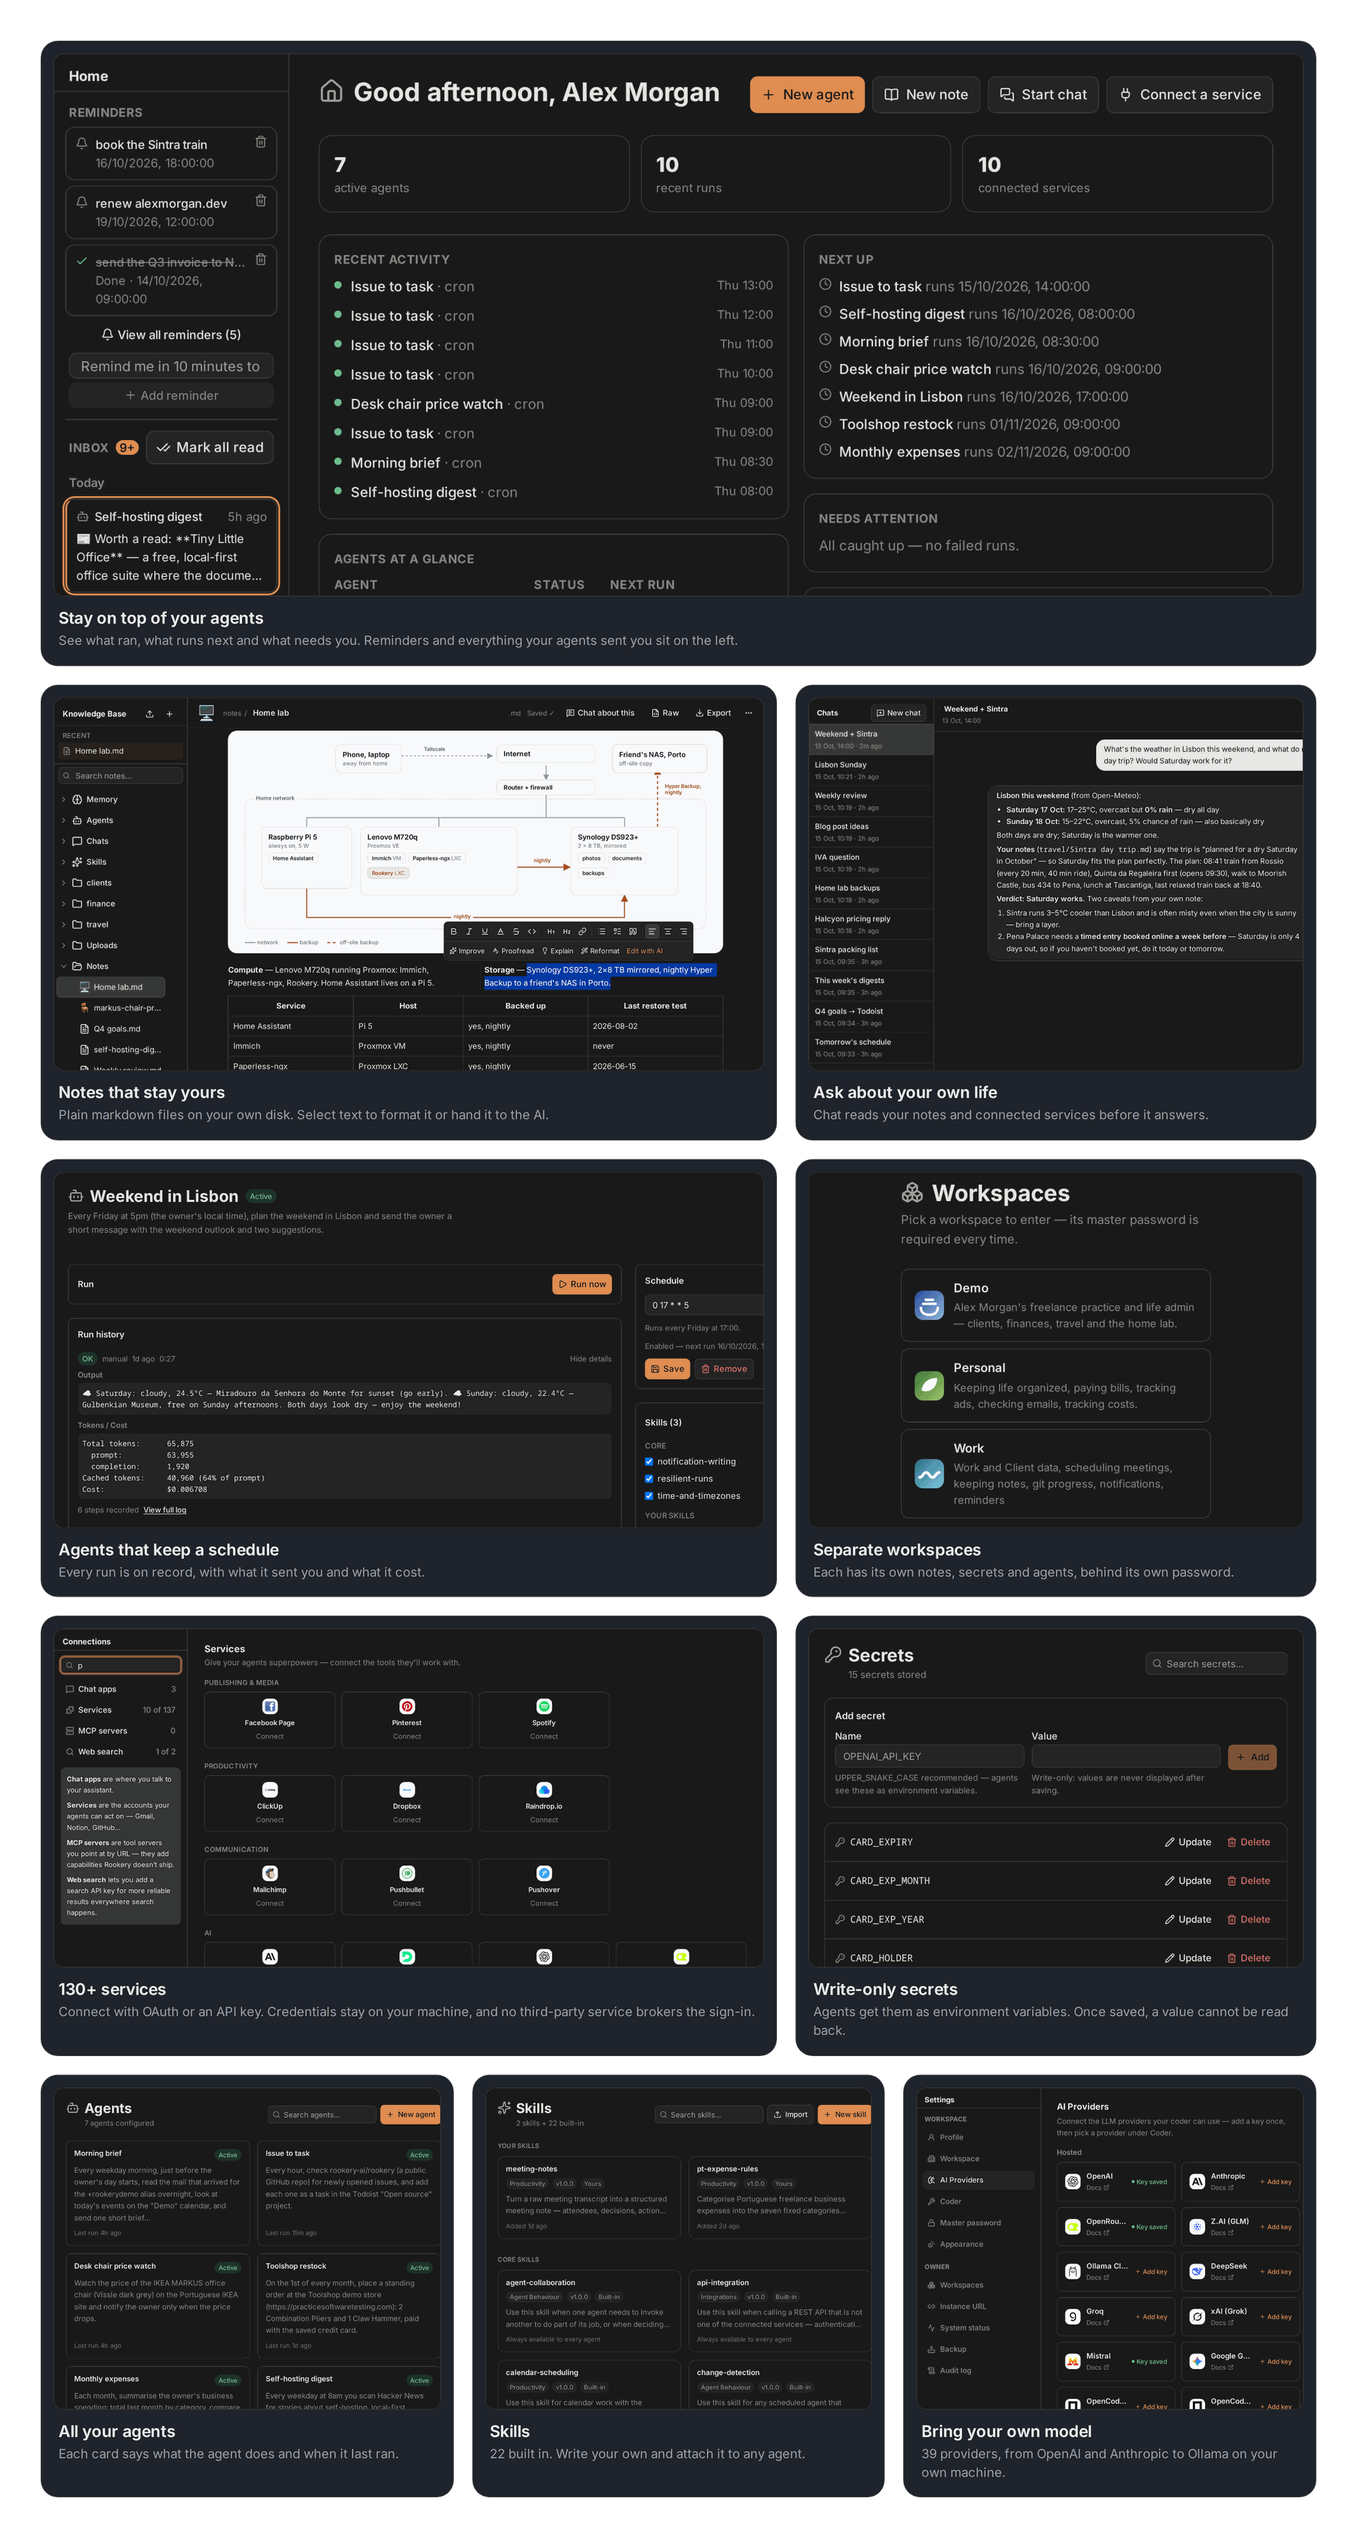
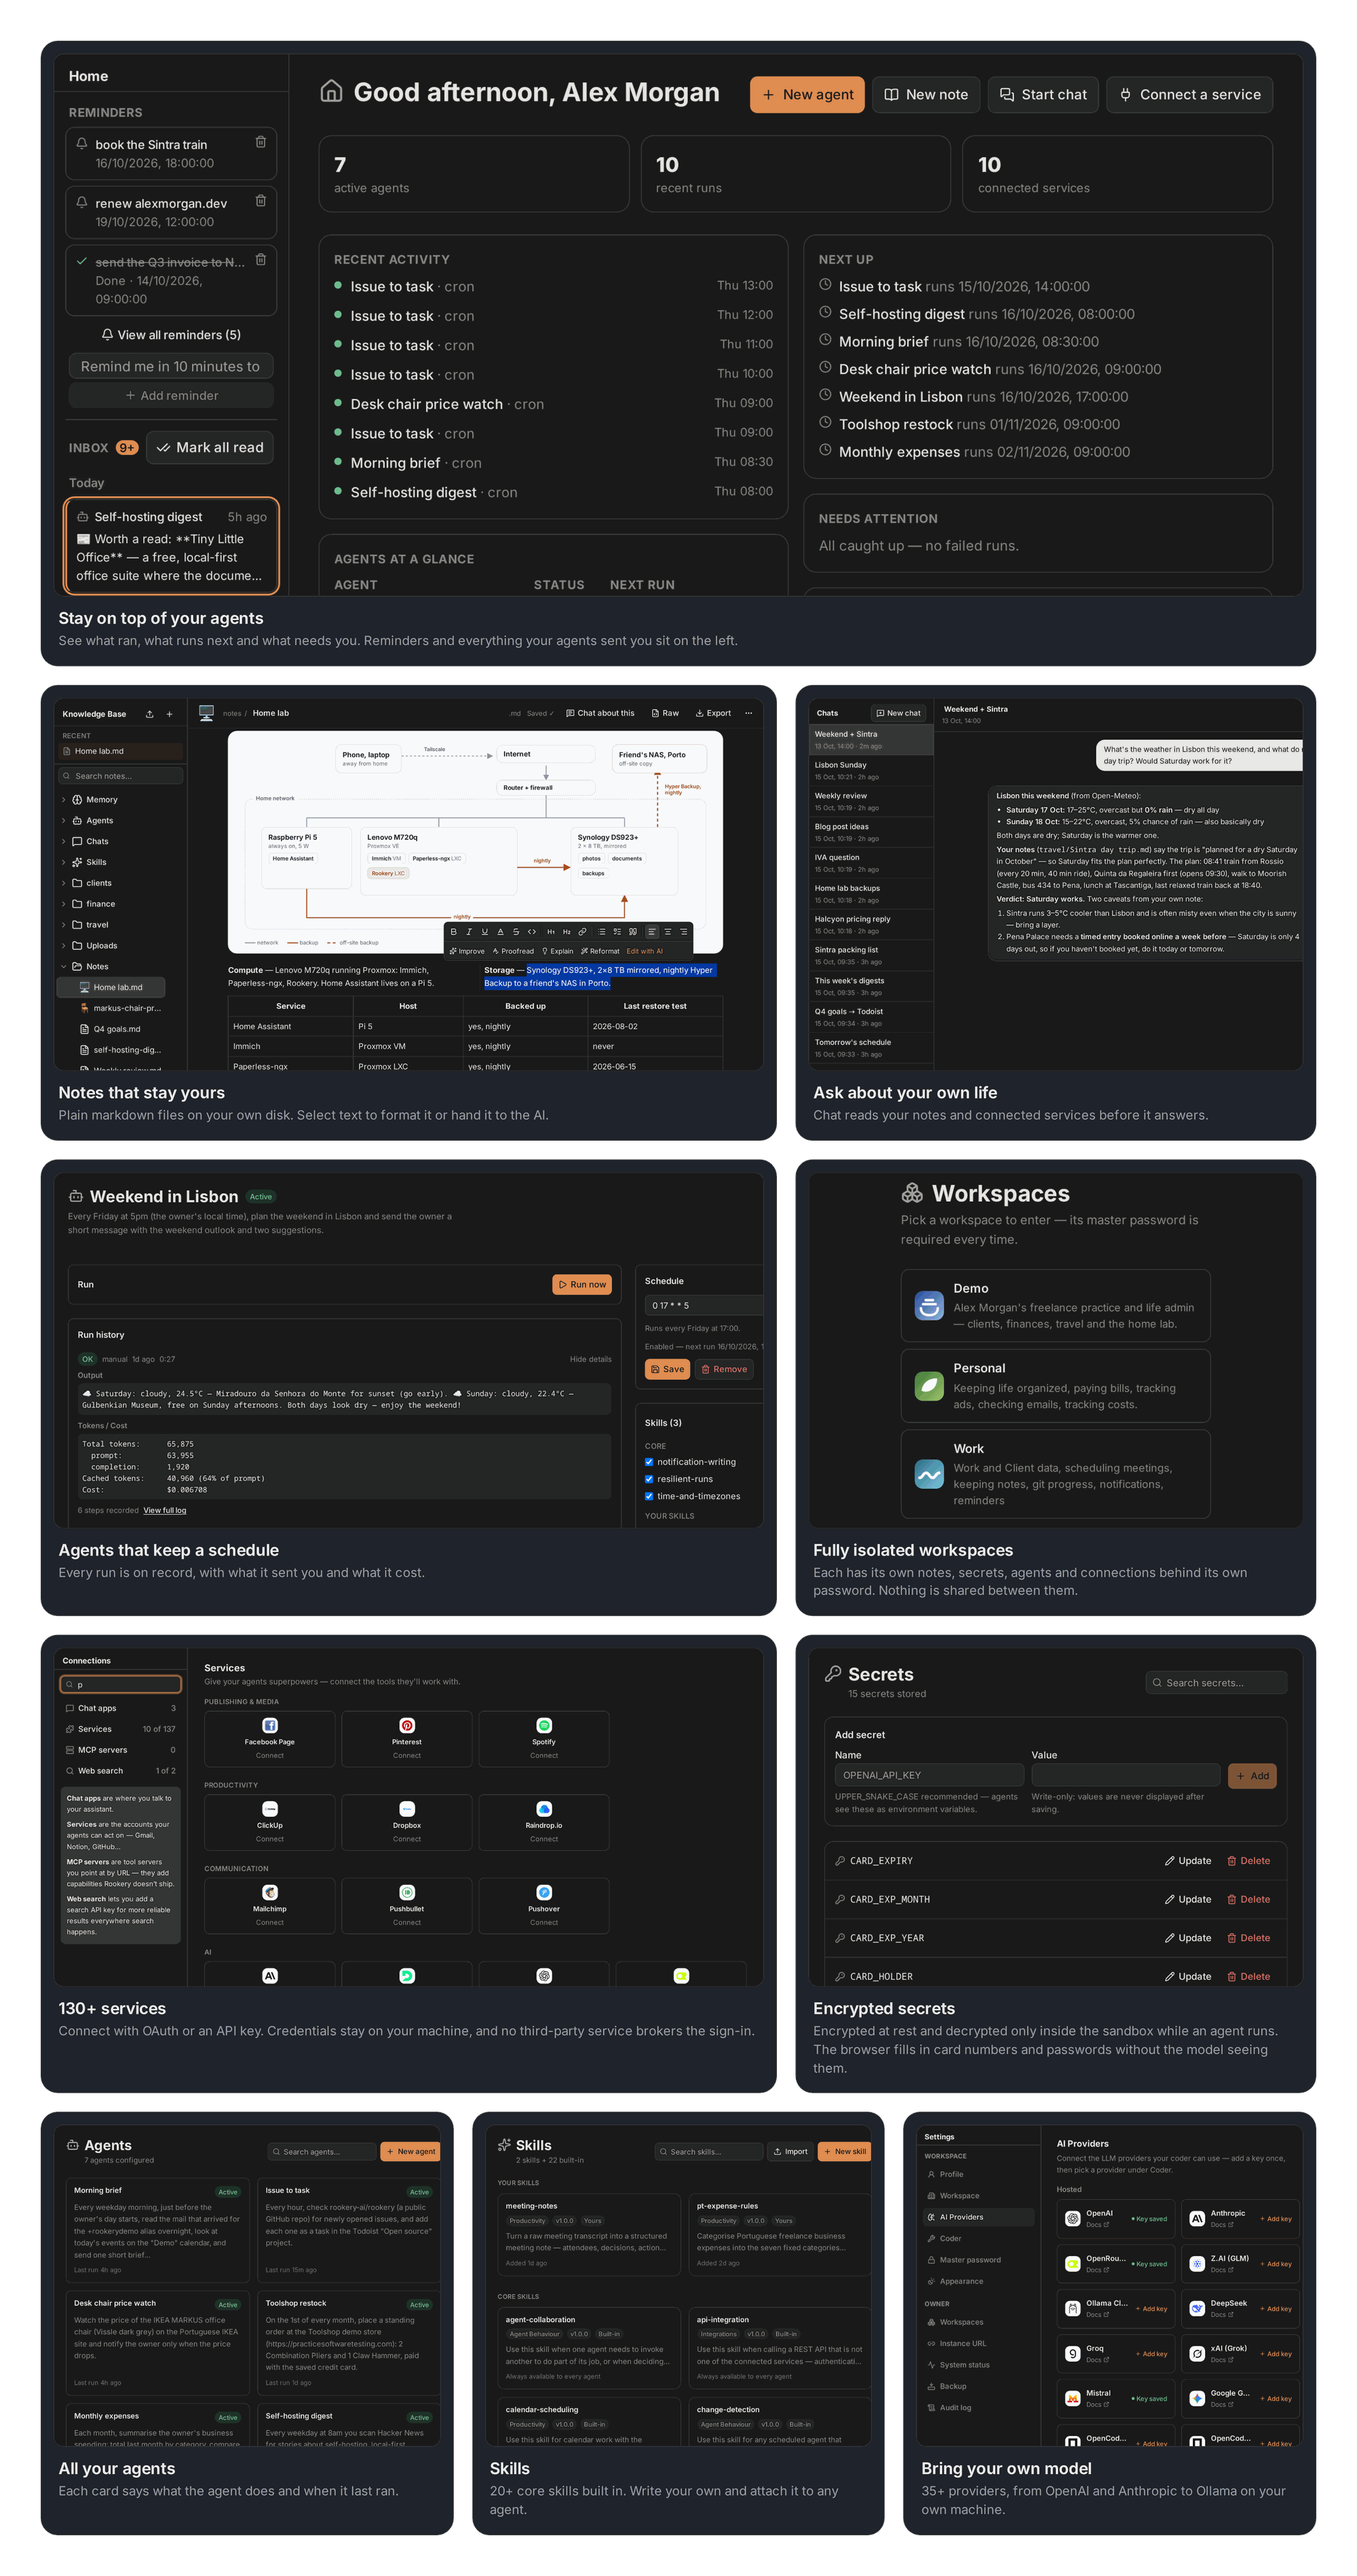
docs(readme): approximate counts, web section after the tour
Restore the original intro, move the browser-and-permission notes into
their own section with the refused/granted pair, and state skills as
20+ core skills (now guarded by check_inflated rather than CLAIMS).

diff --git a/scripts/check-docs-sync.py b/scripts/check-docs-sync.py
@@ -136,9 +136,8 @@ CLAIMS = [
     # README states them as "100+"/"900+", which is an approximate claim and
     # therefore check_inflated's job, not this table's. Skills stays exact —
     # 22 is a number a reader can act on, and it moves rarely.
-    # Plain text, not bold: the README stopped decorating its numbers when it
-    # was rewritten around the screenshots.
-    ("product", "README.md", r"(\d+) skills built in", "skills"),
+    # README.md's skill count moved to INFLATABLE when it became "20+ core
+    # skills": an approximate claim is check_inflated's job, not this table's.
     ("web", "src/pages/index.astro", r"(\d+)\+? services", "providers"),
     # The landing page states the provider count TWICE, in different words:
     # the section heading ("N services") and the line under the logo wall
@@ -202,7 +201,6 @@ def _claims_selftest() -> None:
     # must be exercised against a deliberately re-wrapped copy of text it is
     # supposed to match, through _flex_ws, the same way check_claims calls it.
     rewrapped_cases = [
-        (r"\*\*(\d+) skills\*\* built in", "**22 skills** built\nin", "22"),
         (r"(\d+)\+? services", "91\nservices", "91"),
         (r"selection of the (\d+) supported", "A selection of\nthe 91 supported.", "91"),
         (r"— (\d+) built in", "—\n22 built\nin", "22"),
@@ -260,6 +258,7 @@ INFLATABLE = [
     ("web", "src/content/docs/docs/reference/connected-services.md", rf"(\d+)\+\s*({INFLATED_NOUNS})", "providers"),
     ("product", "README.md", r"(\d+)\+\s*(services)", "providers"),
     ("product", "README.md", r"(\d+)\+\s*(curated actions)", "actions"),
+    ("product", "README.md", r"(\d+)\+\s*(core skills)", "skills"),
 ]
 
 
@@ -328,16 +327,18 @@ def _inflated_selftest() -> None:
     # count and fail a true sentence — a gate that fires on honest prose.
     readme = [(p, k) for repo, rel, p, k in INFLATABLE
               if repo == "product" and rel == "README.md"]
-    assert len(readme) == 2, "README.md must contribute exactly two N+ entries"
+    assert len(readme) == 3, "README.md must contribute exactly three N+ entries"
     by_key = {k: p for p, k in readme}
-    assert set(by_key) == {"providers", "actions"}, \
-        "README.md's N+ claims cover providers and actions"
+    assert set(by_key) == {"providers", "actions", "skills"}, \
+        "README.md's N+ claims cover providers, actions and skills"
 
     line = "**100+ services** and **900+ curated actions**, over OAuth"
     prov = re.search(_flex_ws(by_key["providers"]), line)
     acts = re.search(_flex_ws(by_key["actions"]), line)
     assert prov and int(prov.group(1)) == 100, "providers entry must read 100, not 900"
     assert acts and int(acts.group(1)) == 900, "actions entry must read 900, not 100"
+    sk = re.search(_flex_ws(by_key["skills"]), "It comes with 20+ core skills")
+    assert sk and int(sk.group(1)) == 20, "skills entry must read the core-skills count"
 
     # And the providers pattern must NOT also swallow the actions clause —
     # if it did, the 900 would be compared against the provider count.

diff --git a/README.md b/README.md
@@ -17,27 +17,17 @@ docs/superpowers/specs/2026-10-13-demo-designer-log.md.
   <a href="https://github.com/rookery-ai/rookery/pkgs/container/rookery"><img alt="Container" src="https://img.shields.io/badge/ghcr.io-rookery-a94c1c"></a>
 </p>
 
-Rookery runs agents that do work for you on a machine you own. It is one
-program, and it gives you a knowledge base of plain markdown files on your own
-disk, agents you build by describing them in plain language, and connections
-to the services you already use, such as email, calendars, repositories and
-home automation.
+**Rookery is a platform for agents that work on your behalf, running on hardware
+you own.** You install one program. It gives you:
 
-Agents run on a schedule or when you ask, and they tell you what they did. Put
-Rookery on a machine that stays on and the work keeps going while you are away.
+- **A place to keep what you know** — as plain markdown on your own disk.
+- **A way to build agents by describing them in plain language.**
+- **A way for those agents to reach the services you already use** — email,
+  calendars, repositories, home automation, whatever you connect.
 
-An agent can sign in to a website and click through it for you, checkout
-included. Anything it cannot undo, like paying, needs your permission first,
-and you give it once, when you build the agent. Card numbers and passwords
-live in your secrets: the agent types `${CARD_NUMBER}` and Rookery fills in
-the real value, so the model never sees it.
-
-<p align="center">
-  <picture>
-    <source media="(prefers-color-scheme: dark)" srcset="docs/assets/screenshots/pair-dark.png">
-    <img src="docs/assets/screenshots/pair-light.png" alt="Two runs of the same shopping agent. Without permission it signs in, fills the cart and stops at checkout. With permission it fills the card fields with placeholders such as ${CARD_NUMBER} and confirms the order." width="100%">
-  </picture>
-</p>
+They run on a schedule, or when you ask, and they tell you what happened. The
+whole thing is designed to sit on a machine that stays on, so the work carries
+on while you are not watching.
 
 ## Quickstart
 
@@ -96,9 +86,9 @@ make build
 </picture>
 
 Rookery connects to 130+ services with 900+ curated actions, over OAuth or an
-API key you paste in, and no third-party service sits in between. It has 22
-skills built in, and you can write your own by describing them, the same way
-you build an agent.
+API key you paste in, and no third-party service sits in between. It comes
+with 20+ core skills, and you can write your own by describing them, the same
+way you build an agent.
 
 The documentation covers each part:
 [workspaces](https://rookery.cloud/docs/concepts/workspaces),
@@ -113,6 +103,23 @@ The documentation covers each part:
 [models](https://rookery.cloud/docs/concepts/models),
 [secrets](https://rookery.cloud/docs/concepts/secrets) and
 [scheduling](https://rookery.cloud/docs/concepts/scheduling).
+
+## Agents that use the web
+
+- Agents can sign in to a website and click through it for you, checkout
+  included.
+- Anything they cannot undo, like paying, needs your permission. You give it
+  once when you build the agent, and you can take it back on the agent's page.
+- Card numbers and passwords stay in your secrets. The agent types
+  `${CARD_NUMBER}` and Rookery fills in the real value, so the model never sees
+  it.
+
+<p align="center">
+  <picture>
+    <source media="(prefers-color-scheme: dark)" srcset="docs/assets/screenshots/pair-dark.png">
+    <img src="docs/assets/screenshots/pair-light.png" alt="The same shopping agent run twice. Without permission it stops at checkout. With permission it pays, typing ${CARD_NUMBER} in place of the card number." width="100%">
+  </picture>
+</p>
 
 ## How it fits together
 
